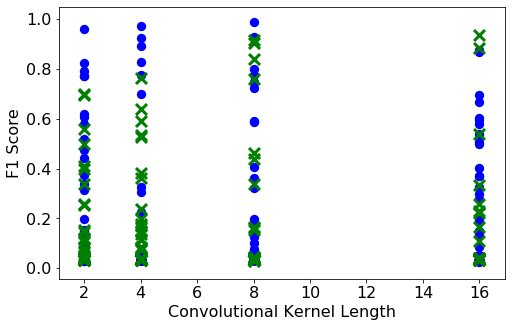
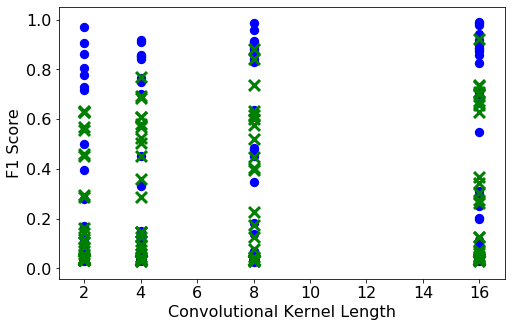
updates cnn hp search

diff --git a/model_choices_hyperparameter_results.tex b/model_choices_hyperparameter_results.tex
@@ -393,56 +393,56 @@ The effect of scaling on performance was similar to the DNN. Using $sqrt$ scalin
      \begin{subfigure}[b]{0.49\textwidth}
          \centering
          \includegraphics[width=\textwidth]{images/cnn_learning_rate.png}
-         \caption{Learning Rate}
+         \caption{}
          \label{fig:cnn_learning_rate}
      \end{subfigure}
      \hfill
      \begin{subfigure}[b]{0.49\textwidth}
          \centering
          \includegraphics[width=\textwidth]{images/cnn_dropout.png}
-         \caption{Dropout Rate}
+         \caption{}
          \label{fig:cnn_dropout}
      \end{subfigure}
 
      \begin{subfigure}[b]{0.49\textwidth}
          \centering
          \includegraphics[width=\textwidth]{images/cnn_batch_size.png}
-         \caption{Batch Size}
+         \caption{}
          \label{fig:cnn_batch_size}
      \end{subfigure}
      \hfill
      \begin{subfigure}[b]{0.49\textwidth}
          \centering
          \includegraphics[width=\textwidth]{images/cnn_pooling_size.png}
-         \caption{CNN Pooling Size}
+         \caption{}
          \label{fig:cnn_pooling_size}
      \end{subfigure}
 
     \begin{subfigure}[b]{0.49\textwidth}
          \centering
          \includegraphics[width=\textwidth]{images/cnn_l2_reg.png}
-         \caption{L2 Regularization Scale}
+         \caption{}
          \label{fig:cnn_l2_reg}
      \end{subfigure}
      \hfill
      \begin{subfigure}[b]{0.49\textwidth}
          \centering
          \includegraphics[width=\textwidth]{images/cnn_dense_nodes_total.png}
-         \caption{Total Dense Nodes}
+         \caption{}
          \label{fig:cnn_dense_nodes_total}
      \end{subfigure}  
      
      \begin{subfigure}[b]{0.49\textwidth}
          \centering
          \includegraphics[width=\textwidth]{images/cnn_kernel_length.png}
-         \caption{Convolution Kernel Length}
+         \caption{}
          \label{fig:cnn_kernel_length}
      \end{subfigure}
      \hfill
      \begin{subfigure}[b]{0.49\textwidth}
          \centering
          \includegraphics[width=\textwidth]{images/cnn_num_conv_layers.png}
-         \caption{Total Convolution Layers}
+         \caption{}
          \label{fig:cnn_num_conv_layers}
      \end{subfigure}  
 	\begin{tabular}{r@{ : }l r@{ : }l}
@@ -459,23 +459,31 @@ The effect of scaling on performance was similar to the DNN. Using $sqrt$ scalin
         % \raisebox{-0.49cm}{
         \includegraphics[width=\textwidth]{images/cnn_scaler.png}
         % }
-        \caption{Feature Scaling}
+        \caption{}
         \label{fig:cnn_scaler}
     \end{subfigure}
     \hfill
     \begin{subfigure}[t]{0.49\textwidth}
         \centering
         \includegraphics[width=\textwidth]{images/cnn_filter_structure.png}
-        \caption{Number of Convolutional Filters}
+        \caption{}
         \label{fig:cnn_filter_structure}
     \end{subfigure}
     
     \begin{subfigure}[t]{0.49\textwidth}
         \centering
         \includegraphics[width=\textwidth]{images/cnn_dense_layers_total.png}
-        \caption{Total Dense Layers}
+        \caption{}
         \label{fig:cnn_dense_layers_total}
     \end{subfigure}
+	\hfill
+	\begin{subfigure}[t]{0.49\textwidth}
+		\centering
+		\includegraphics[width=\textwidth]{images/cnn_activation_function.png}
+		\caption{}
+		\label{fig:cnn_activation_function}
+	\end{subfigure}
+
 		\begin{tabular}{r@{ : }l r@{ : }l}
 			\textcolor{darkgreen}{\textbf{\large{X}}} & Complete Dataset & \bluecircle & Simple Dataset \\
 		\end{tabular}
@@ -491,15 +499,15 @@ The effect of scaling on performance was similar to the DNN. Using $sqrt$ scalin
 \hline
 \multirow{2}{*}{\textbf{Hyperparameter}} & \multicolumn{2}{l}{\textbf{Optimum Value}} \\
  & \textbf{Simple Dataset} & \textbf{Complete Dataset} \\ \hline
-Filter Kernels in Each Layer & 8 - 16 - 32 & 8 - 16 - 32 \\
-Filter Kernel Length & 8 & 16 \\
-Pooling size & 2 & 16 \\
-Dense Layer Structure & 64 & 16 \\
-Initial Learning Rate & 0.010 & 0.00024 \\
-L2 Regularization Strength & 0.0016 & 0.0097 \\
-Dropout Frequency & 0.32 & 0.16 \\
-Batch Size & 16 & 16 \\
-Activation Function & relu & relu \\
+Filter Kernels in Each Layer & 4 - 8 - 16 & 8 - 16 - 32 \\
+Filter Kernel Length & 16 & 16 \\
+Pooling size & 4 & 8 \\
+Dense Layer Structure & 128 - 64 & 128 - 64 \\
+Initial Learning Rate & 0.0014 & 0.00010 \\
+L2 Regularization Strength & 0.0044 & 0.0015 \\
+Dropout Frequency & 0.042 & 0.045 \\
+Batch Size & 16 & 32 \\
+Activation Function & tanh & tanh \\
 Input Scaling & sqrt-max & sqrt-max \\ \hline
 \end{tabular}
 \end{table}
